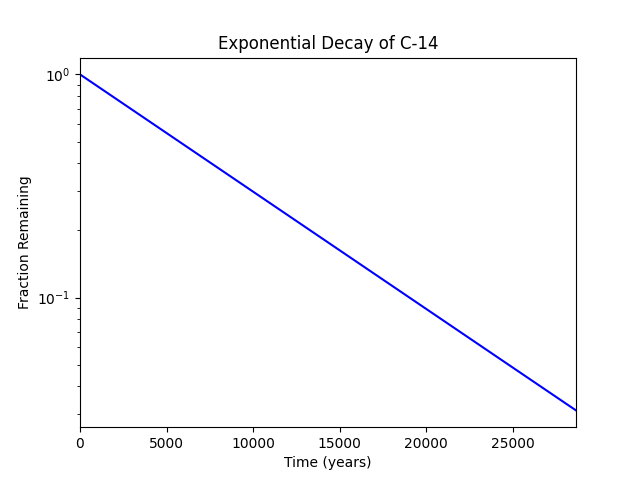
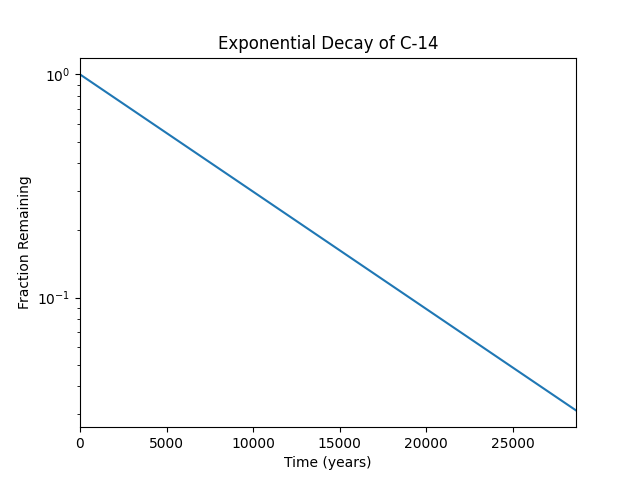
push task2

diff --git a/math/plotting/2-change_scale.py b/math/plotting/2-change_scale.py
@@ -19,11 +19,12 @@ def change_scale():
     plt.figure(figsize=(6.4, 4.8))
 
     # Spécification du graphique (couleur, titre, échelle, limite)
-    plt.plot(x, y, 'b-')
+    plt.plot(x, y)
     plt.yscale('log')
     plt.xlim(0, 28650)
     plt.title("Exponential Decay of C-14")
     plt.xlabel("Time (years)")
     plt.ylabel("Fraction Remaining")
+
     plt.savefig("2-change_scale.png")
     plt.show()
